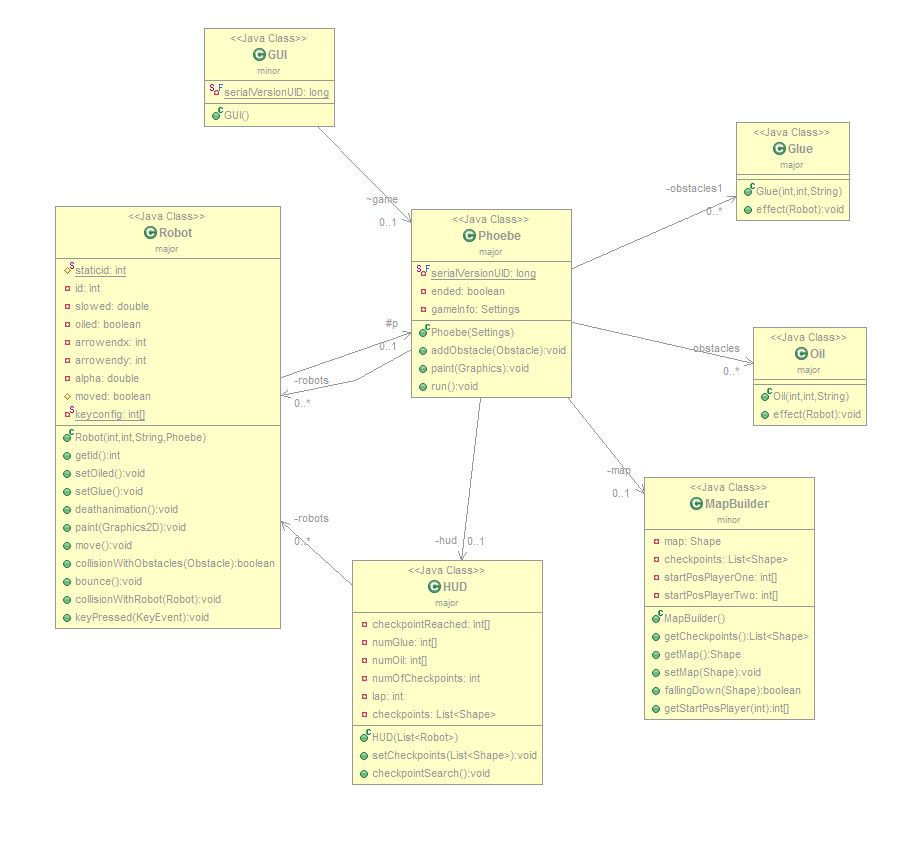
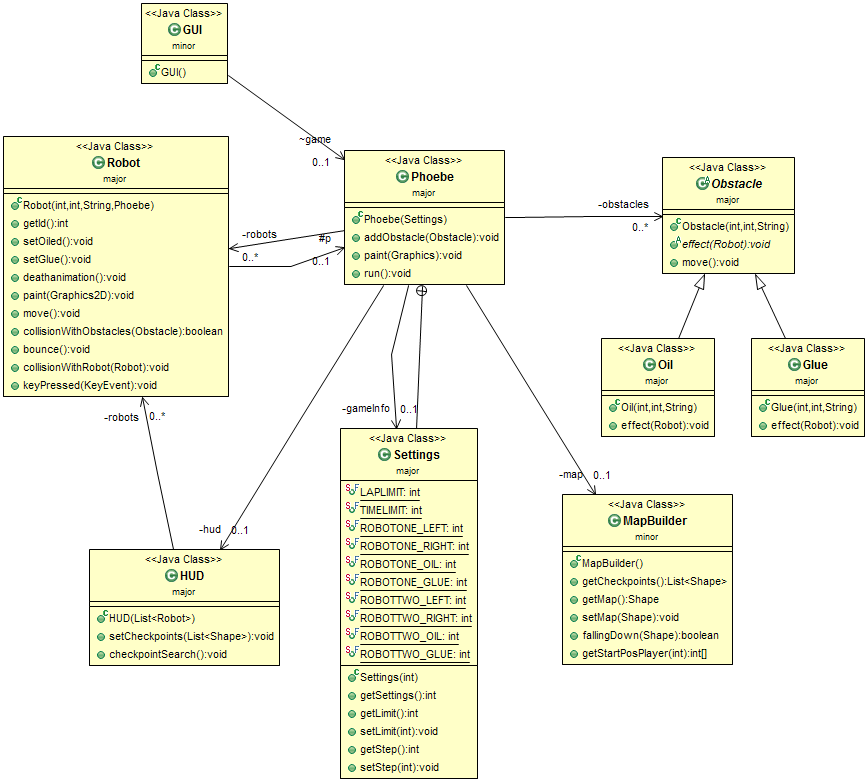
Dok -- Modell konzisztencia vizsgálat #1

diff --git a/doc/chapters/chapter04/sablon04.tex b/doc/chapters/chapter04/sablon04.tex
@@ -82,14 +82,14 @@ A robotok ragacs- és olajkészletét, illetve megtett köreit és checkpontjait
 		\item \textbf{int[]} lap: Minden robothoz tárolja a megtett körök számát. 
 		\item \textbf{int[]} numGlue: Minden robothoz tárolja a ragacsok számát.
 		\item \textbf{int[]} numOil: Minden robothoz tárolja az olajok számát.
-		\item \textbf{List<Shape>} checkpoints: Tárolja a checkpointokat reprezentáló objektumokat List adatszerkezetben. A checkpointSearch függvény kérdezi le ebből a következő checkpoint helyzetét. 
+		\item \textbf{List} checkpoints: Tárolja a checkpointokat reprezentáló objektumokat List adatszerkezetben. A checkpointSearch függvény kérdezi le ebből a következő checkpoint helyzetét. 
 		\item \textbf{List<Robot>} robots: A robotokat tároló List adatszerkezet. A checkpointSearch függvény kérdezi le ebből a robotokat, majd azok helyzetét.
 	\end{itemize}
 \item Metódusok
 	\begin{itemize}
 		\item \textbf{HUD}(List<Robot> robs): Konstruktor, inicializálja a köröket számláló változót, az érintett checkpointokat, a ragacs és olajkészleteket. 
 		\item void \textbf{checkpointSearch}(): Ellenőrzi hogy a robotok teljesítették-e a következő checkpointot.
-		\item void \textbf{setCheckpoints}(List<Shape> checkObj): Checkpointokat reprezentáló adatszerkezet betöltése.
+		\item void \textbf{setCheckpoints}(List checkObj): Checkpointokat reprezentáló adatszerkezet betöltése.
 		
 	\end{itemize}
 \end{itemize}
@@ -100,15 +100,14 @@ A robotok ragacs- és olajkészletét, illetve megtett köreit és checkpontjait
 A pálya felépítéséért, a checkpointok tárolásáért és a robot pályán tartózkodásának vizsgálatáért felelős osztály.
 \item Attribútumok
 	\begin{itemize}
-		\item \textbf{Shape} map: A pályát reprezentáló objektum. 
-		\item \textbf{List<Shape>} checkpoints: Tárolja a checkpointokat reprezentáló objektumokat List adatszerkezetben.
+		\item \textbf{List} checkpoints: Tárolja a checkpointokat reprezentáló objektumokat List adatszerkezetben.
 		\item \textbf{int[]} startPosPlayerOne: Meghatároz egy (x,y) koordinátát, ahol az első játékos kezd.
 		\item \textbf{int[]} startPosPlayerTwo: Meghatároz egy (x,y) koordinátát, ahol az második játékos kezd.
 	\end{itemize}
 \item Metódusok
 	\begin{itemize}
 		\item \textbf{MapBuilder}(): Konstruktor, a pálya beolvasása fájlból, majd létrehozása.
-		\item boolean \textbf{fallingDown}(Shape othershape): Igaz értéket ad vissza, ha a robot leesett a pályáról, hamisat ha még rajta van.
+		\item boolean \textbf{robotOutsideOfMap}(Robot r): Igaz értéket ad vissza, ha a robot leesett a pályáról, hamisat ha még rajta van.
 	\end{itemize}
 \end{itemize}
 
@@ -153,7 +152,7 @@ A játék motorját képviselő osztály. A robotok pozíciójáért, az akadál
 		\item \textbf{List<Robot>} robots: A játékban szereplő robotok listája.
 		\item \textbf{List<Obstacle>} obstacles: A játékban szereplő akadályok listája.
 		\item \textbf{HUD} hud: A játékosok előrehaladását, ragacs és olajkészleteit tartja számon
-		\item \textbf{MapBuilder} map: 
+		\item \textbf{MapBuilder} map: A pályát reprezentáló objektum. Tárolja még a checkpointokat és a robotok kezdő koordinátáit.
 	\end{itemize}
 \item Metódusok
 	\begin{itemize}
@@ -182,7 +181,6 @@ Nincs interfésze
 		\item \textbf{int} arrowendy: A robot irányítását segítő nyílnak az y koordinátája, a nyíl kirajzolásánál van szerepe.
 		\item \textbf{double} alpha: A robot irányítását segítő nyíl vízszintessel bezárt szöge. A nyil kirajzolásánál, az ugrás végpontjának meghatározánál van szerepe.
 		\item \textbf{boolean} moved: Azt jelöli, hogy lépett-e már a robot az aktuális körben. A megjelenítésnél (a nyilat ugrás közben nem jelenítjük meg), illetve az irányítás letiltásánál van szerepe (olajba lépés esetén).
-		\item \textbf{int[][]} keyconfig: A játékosok írányítását tároló mátrix. A játékosok irányítását ennek segítségével határozzuk meg a keyPressed függvényben. A sor meghatározza a felhasználóhoz tartozó gombokat, az oszlopok a funkciók (olaj/ragacs lerakás, a nyíl jobbra/balra mozgatása).
 \end{itemize}
 \item Metódusok\\
 	\begin{itemize}
@@ -190,7 +188,7 @@ Nincs interfésze
 		\item \textbf{void deathanimation}(): A Robot halálának grafikus megjelenítéséért felelős függvény.
 		\item boolean \textbf{collisionWithObstacle}(Obstacle o): Ellenőrzi hogy a robot ütközött-e az akadállyal. Igazzal tér vissza ha igen, hamissal ha nem.
 		\item void \textbf{collisionWithRobot}(Robot r): Ellenőrzi, hogy a robot ütközött-e másik robottal. Ha igen, akkor gondoskodik róla, hogy a robotok a megfelelő szögben pattanjanak le egymásról.
-		\item void \textbf{keyPressed}(Keyevent e): A robot irányítását megvalósító függvény, a játékmotor keylistener-e által hívódik meg, a lenyomott billentyű keyevent-jére. A következő ugrás beállítása, a ragacs/olaj lerakása történhet itt a keyconfig változó felhasználásával.
+		\item void \textbf{keyPressed}(): A robot irányítását megvalósító függvény, a játékmotor keylistener-e által hívódik meg, a lenyomott billentyű keyevent-jére. A következő ugrás beállítása, a ragacs/olaj lerakása történhet itt a keyconfig változó felhasználásával.
 	\end{itemize}
 \end{itemize}
 
@@ -213,7 +211,7 @@ A pályán található objektumokért felel és azok viszonyáról (például ü
 	\begin{itemize}
 		\item \textbf{int} x: Az egység x koordinátája
 		\item \textbf{int} y: Az egység y koordinátája
-		\item \textbf{Rectangle} hitbox: Az egységet a pályán reprezentáló sokszög.
+		\item \textbf{Object} hitbox: Az egységet a pályán reprezentáló sokszög.
 	\end{itemize}
 \item Metódusok
 	\begin{itemize}

diff --git a/src/minor/MapBuilder.java b/src/minor/MapBuilder.java
@@ -5,6 +5,8 @@ import java.awt.Shape;
 import java.awt.geom.Area;
 import java.util.List;
 
+import major.Robot;
+
 /*
  * MapBuilder osztály
  * Felelősség:
@@ -81,16 +83,16 @@ public class MapBuilder{
 	}
 	
 	/*
-	 * intersectsWithMap függvény
+	 * robotOutsideOfMap függvény
 	 * 
 	 *  @return igaz értékkel tér vissza, ha a robot leesett a pályáról
 	 */
-	public boolean fallingDown(Shape othershape){
+	public boolean robotOutsideOfMap(Robot r){
 		Area area = new Area(map);
-		Area otherArea = new Area(othershape);
+		Area otherArea = new Area(r.getHitbox());
 		area.intersect(otherArea);
 		//TODO revision
-		return area.getBounds().getSize().equals(othershape.getBounds().getSize());
+		return area.getBounds().getSize().equals(r.getHitbox().getBounds().getSize());
 	}
 
 	public int[] getStartPosPlayer(int id) {
